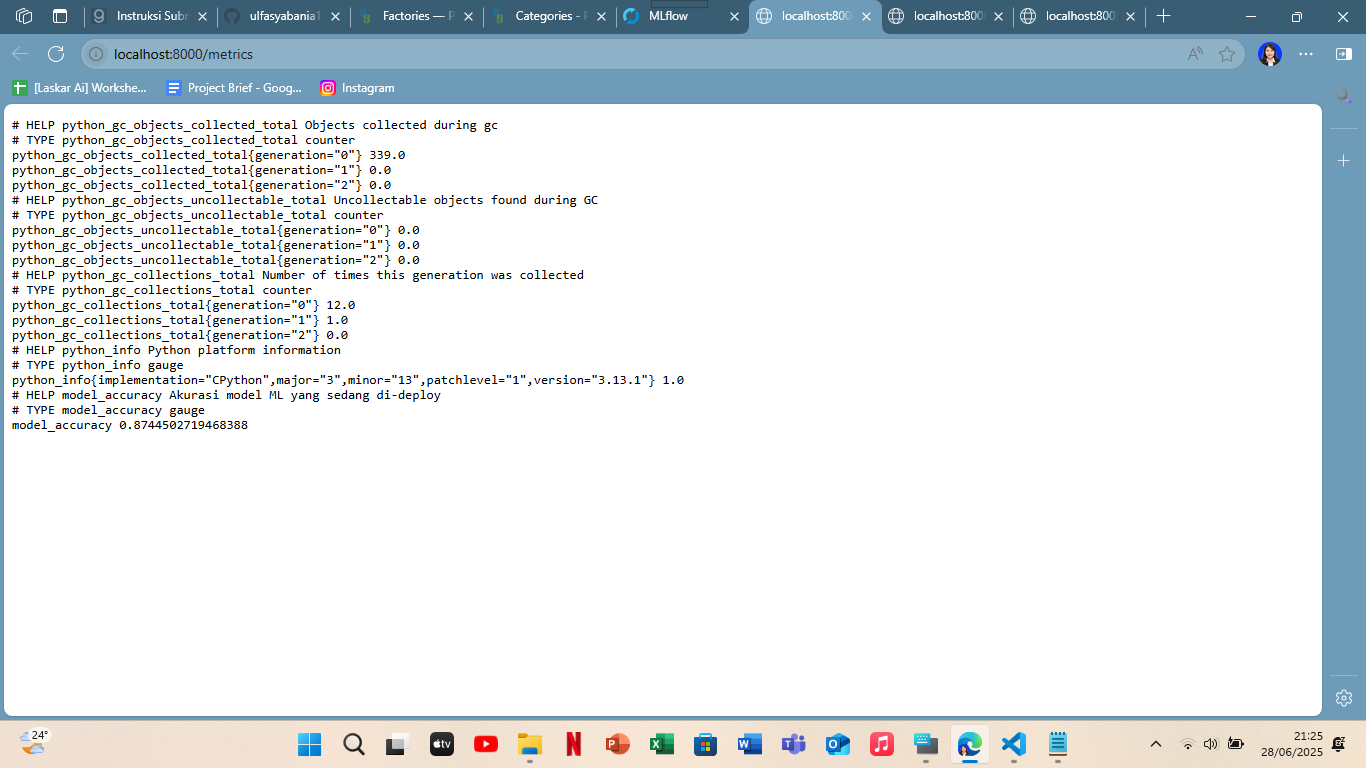
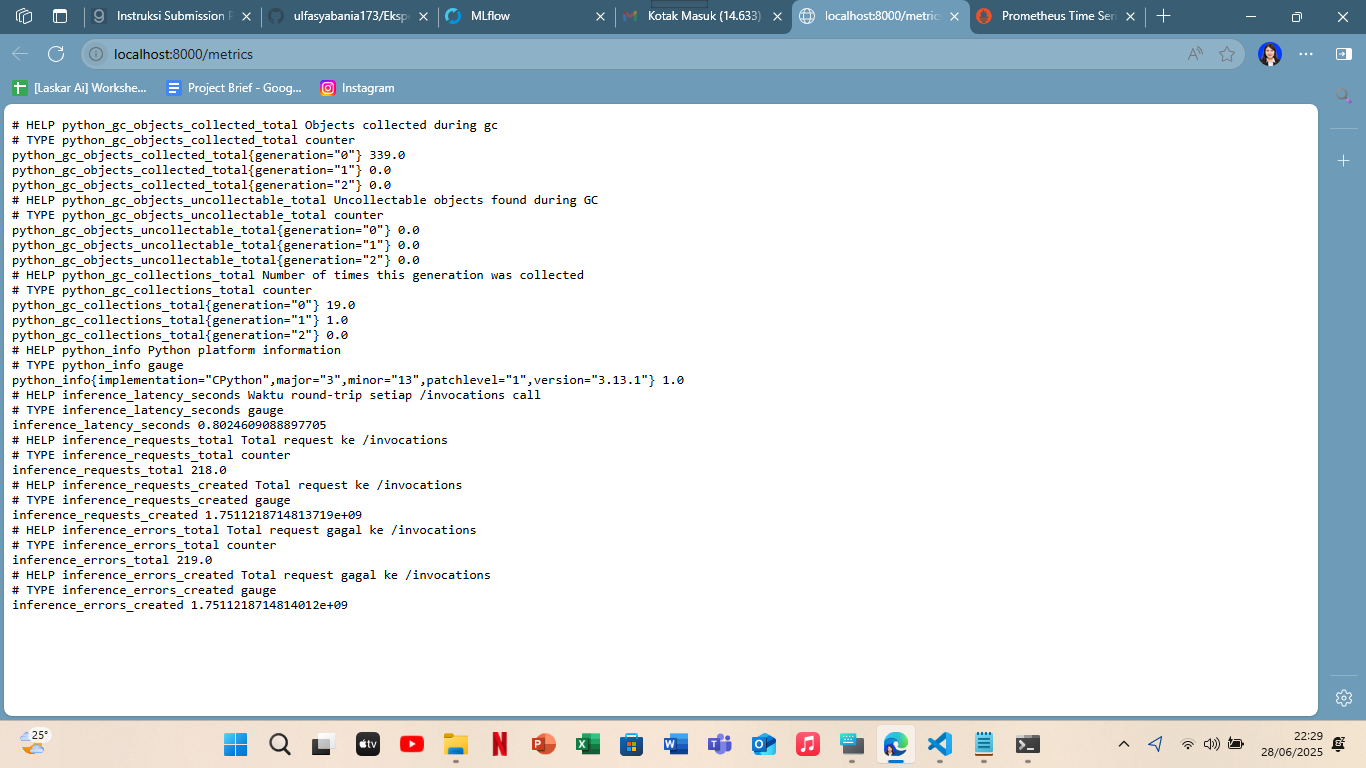
Initial commit: All Project Files

diff --git a/Monitoring_dan_Logging/prometheus_exporter.py b/Monitoring_dan_Logging/prometheus_exporter.py
@@ -1,33 +1,38 @@
-from prometheus_client import start_http_server, Gauge, Counter, Summary
-import time
-import random
+from prometheus_client import start_http_server, Gauge, Counter
+import time, requests
 
-# Metrik 1: Akurasi model
-model_accuracy = Gauge('model_accuracy', 'Akurasi model ML yang sedang di-deploy')
+# 1) Latency
+inference_latency = Gauge(
+    'inference_latency_seconds',
+    'Waktu round-trip setiap /invocations call')
 
-# Metrik 2: Jumlah prediksi yang dilakukan
-prediction_count = Counter('prediction_count', 'Total jumlah prediksi yang dilakukan oleh model')
+# 2) Throughput
+inference_requests = Counter(
+    'inference_requests_total',
+    'Total request ke /invocations')
 
-# Metrik 3: Waktu inferensi (detik)
-inference_time = Summary('inference_time_seconds', 'Waktu inferensi model dalam detik')
+# 3) Error rate
+inference_errors = Counter(
+    'inference_errors_total',
+    'Total request gagal ke /invocations')
 
-def update_metrics():
+def probe():
+    url = "http://127.0.0.1:5001/invocations"
+    payload = {"instances": [[5.1,3.5,1.4,0.2]]}
+    headers = {"Content-Type":"application/json"}
+
+    start = time.time()
+    try:
+        r = requests.post(url, json=payload, headers=headers, timeout=5)
+        inference_latency.set(time.time() - start)
+        inference_requests.inc()
+        if r.status_code != 200:
+            inference_errors.inc()
+    except Exception:
+        inference_errors.inc()
+
+if __name__ == '__main__':
+    start_http_server(8000)    # expose di :8000
     while True:
-        # Simulasi update akurasi model (ganti dengan pembacaan real dari MLflow/monitoring Anda)
-        accuracy = random.uniform(0.8, 1.0)
-        model_accuracy.set(accuracy)
-
-        # Simulasi jumlah prediksi bertambah
-        prediction_count.inc(random.randint(1, 5))
-
-        # Simulasi waktu inferensi
-        with inference_time.time():
-            time.sleep(random.uniform(0.01, 0.1))
-
-        time.sleep(10)
-
-if __name__ == "__main__":
-    # Jalankan Prometheus exporter di port 8000
-    start_http_server(8000)
-    print("Prometheus exporter berjalan di http://localhost:8000/metrics")
-    update_metrics()
+        probe()
+        time.sleep(5)

diff --git a/Monitoring_dan_Logging/inference.py b/Monitoring_dan_Logging/inference.py
@@ -1,0 +1,30 @@
+import requests
+import json
+
+def infer(instances, url="http://127.0.0.1:5001/invocations"):
+    """
+    Kirim data ke endpoint MLflow model serving dan kembalikan hasil prediksi.
+    Args:
+        instances (list of list): Data input, contoh [[5.1, 3.5, 1.4, 0.2]]
+        url (str): Endpoint MLflow model serving
+    Returns:
+        dict/str: Hasil prediksi dari model
+    """
+    headers = {"Content-Type": "application/json"}
+    payload = {"instances": instances}
+    try:
+        response = requests.post(url, data=json.dumps(payload), headers=headers, timeout=10)
+        response.raise_for_status()
+        try:
+            return response.json()
+        except Exception:
+            return response.text
+    except Exception as e:
+        print(f"Request failed: {e}")
+        return None
+
+if __name__ == "__main__":
+    # Contoh penggunaan
+    sample = [[5.1, 3.5, 1.4, 0.2]]
+    result = infer(sample)
+    print("Prediction result:", result)
